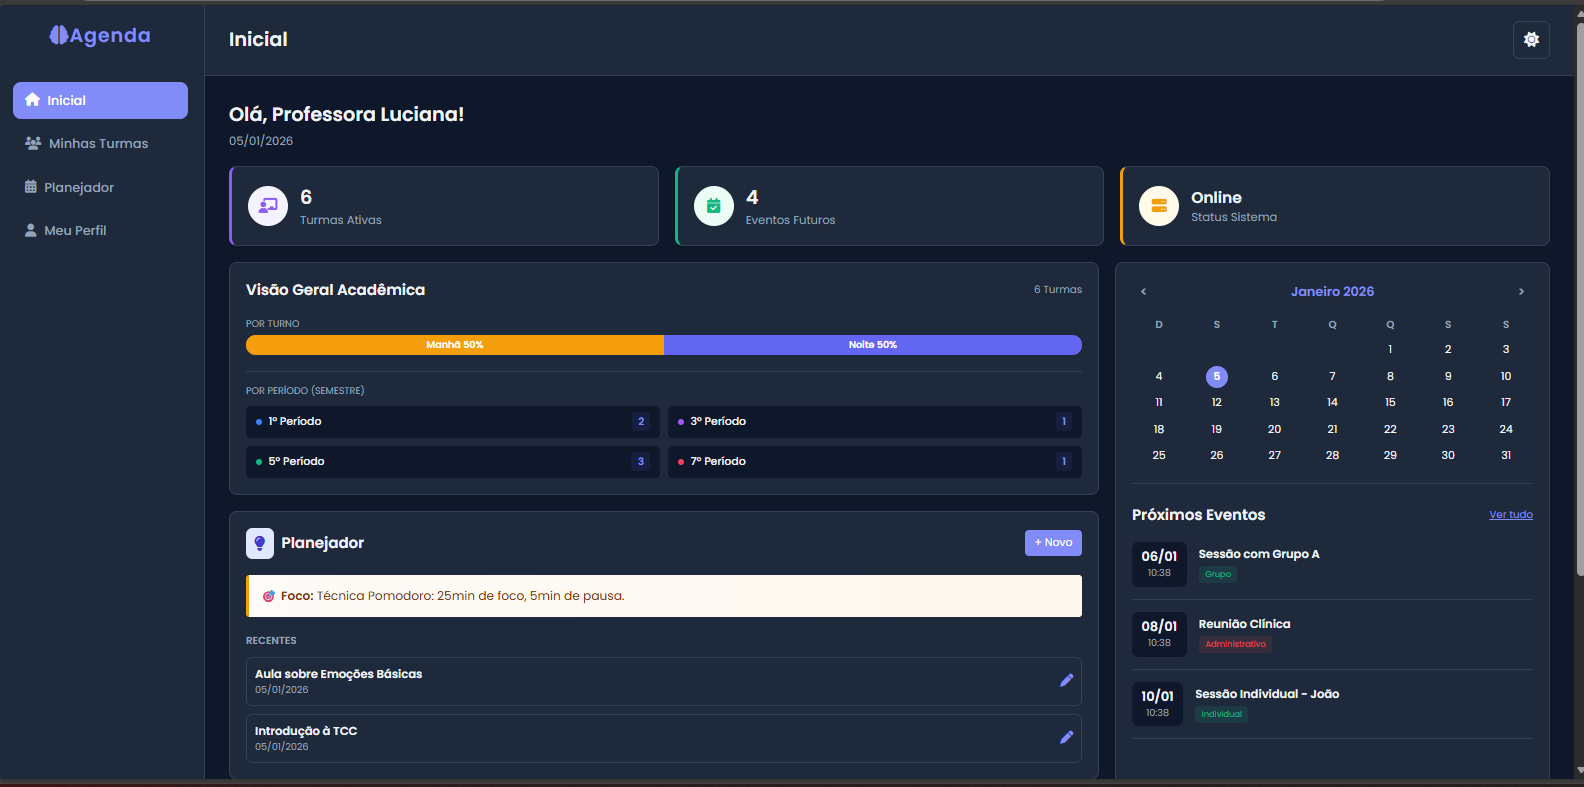
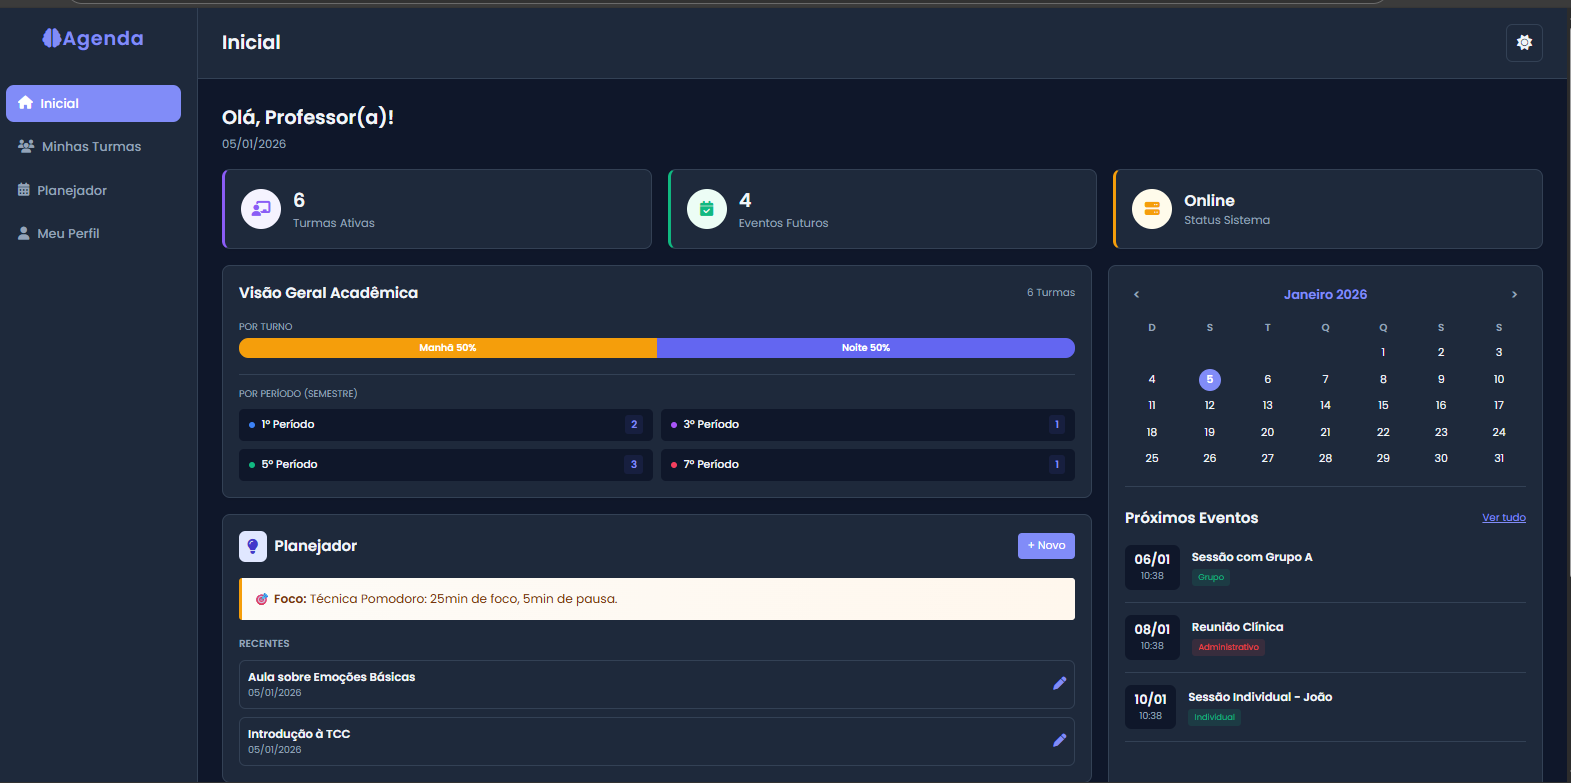
Novo design de Login e correcao de rotas

diff --git a/index.php b/index.php
@@ -1,31 +1,159 @@
 <?php
 // index.php
 require_once 'config/db.php';
+session_start();
+
+// Se já estiver logado, manda direto pro painel
+if (isset($_SESSION['usuario_id'])) {
+    header("Location: dashboard.php");
+    exit();
+}
 ?>
 <!DOCTYPE html>
 <html lang="pt-br">
 <head>
     <meta charset="UTF-8">
+    <meta name="viewport" content="width=device-width, initial-scale=1.0">
     <title>Login - PsicoHub</title>
-    <link rel="stylesheet" href="assets/css/style.css">
+    <link href="https://fonts.googleapis.com/css2?family=Inter:wght@400;500;600;700&display=swap" rel="stylesheet">
+    <link rel="stylesheet" href="https://cdnjs.cloudflare.com/ajax/libs/font-awesome/6.4.0/css/all.min.css">
+    
     <style>
-        /* Estilo específico apenas para o login para centralizar */
-        body { justify-content: center; align-items: center; }
-        .login-box { width: 300px; padding: 20px; background: white; border-radius: 8px; box-shadow: 0 4px 10px rgba(0,0,0,0.1); }
-        input { width: 100%; padding: 10px; margin: 10px 0; }
-        button { width: 100%; padding: 10px; background: #2c3e50; color: white; border: none; cursor: pointer; }
-        button:hover { background: #34495e; }
+        :root {
+            --bg-dark: #0f172a;
+            --card-bg: #1e293b;
+            --primary: #6366f1;
+            --primary-hover: #4f46e5;
+            --text-main: #f8fafc;
+            --text-muted: #94a3b8;
+            --border: #334155;
+        }
+
+        * { margin: 0; padding: 0; box-sizing: border-box; font-family: 'Inter', sans-serif; }
+
+        body {
+            background-color: var(--bg-dark);
+            height: 100vh;
+            display: flex;
+            align-items: center;
+            justify-content: center;
+            /* Um gradiente sutil no fundo para dar elegância */
+            background-image: radial-gradient(circle at top right, #312e81 0%, transparent 40%),
+                              radial-gradient(circle at bottom left, #1e1b4b 0%, transparent 40%);
+        }
+
+        .login-card {
+            background-color: var(--card-bg);
+            padding: 40px;
+            width: 100%;
+            max-width: 400px;
+            border-radius: 16px;
+            border: 1px solid var(--border);
+            box-shadow: 0 25px 50px -12px rgba(0, 0, 0, 0.5);
+            text-align: center;
+        }
+
+        /* Logo e Títulos */
+        .logo-area { margin-bottom: 30px; }
+        .logo-area i {
+            font-size: 3rem;
+            background: linear-gradient(135deg, #6366f1, #a855f7);
+            -webkit-background-clip: text;
+            -webkit-text-fill-color: transparent;
+            margin-bottom: 10px;
+        }
+        .logo-area h1 { font-size: 1.5rem; font-weight: 700; color: var(--text-main); letter-spacing: -0.5px; }
+        .logo-area p { color: var(--text-muted); font-size: 0.9rem; margin-top: 5px; }
+
+        /* Campos de Entrada */
+        .input-group { text-align: left; margin-bottom: 20px; }
+        .input-group label { display: block; margin-bottom: 8px; color: var(--text-muted); font-size: 0.85rem; font-weight: 500; }
+        
+        .input-wrapper { position: relative; }
+        .input-wrapper i {
+            position: absolute; left: 15px; top: 50%; transform: translateY(-50%);
+            color: var(--text-muted); font-size: 1rem; transition: 0.3s;
+        }
+
+        .input-wrapper input {
+            width: 100%;
+            background-color: #0f172a;
+            border: 1px solid var(--border);
+            padding: 12px 12px 12px 45px; /* Espaço para o ícone */
+            border-radius: 8px;
+            color: white;
+            font-size: 0.95rem;
+            outline: none;
+            transition: all 0.3s;
+        }
+
+        .input-wrapper input:focus {
+            border-color: var(--primary);
+            box-shadow: 0 0 0 3px rgba(99, 102, 241, 0.2);
+        }
+        .input-wrapper input:focus + i { color: var(--primary); }
+
+        /* Botão */
+        .btn-login {
+            width: 100%;
+            background: linear-gradient(to right, #6366f1, #4f46e5);
+            color: white;
+            padding: 14px;
+            border: none;
+            border-radius: 8px;
+            font-size: 1rem;
+            font-weight: 600;
+            cursor: pointer;
+            transition: transform 0.2s, box-shadow 0.2s;
+            margin-top: 10px;
+        }
+        .btn-login:hover {
+            transform: translateY(-2px);
+            box-shadow: 0 10px 15px -3px rgba(99, 102, 241, 0.4);
+        }
+
+        /* Rodapé do Card */
+        .card-footer { margin-top: 25px; font-size: 0.85rem; color: var(--text-muted); }
+        .card-footer a { color: var(--primary); text-decoration: none; font-weight: 500; }
+        .card-footer a:hover { text-decoration: underline; }
     </style>
 </head>
 <body>
 
-    <div class="login-box">
-        <h2 style="text-align:center">Login</h2>
-        <form action="valida_login.php" method="POST">
-            <input type="email" name="email" placeholder="Seu e-mail" required>
-            <input type="password" name="senha" placeholder="Sua senha" required>
-            <button type="submit">Entrar</button>
+    <div class="login-card">
+        <div class="logo-area">
+            <i class="fa-solid fa-brain"></i>
+            <h1>PsicoHub</h1>
+            <p>Faça login para gerenciar suas turmas</p>
+        </div>
+
+        <form action="actions/valida_login.php" method="POST">
+            
+            <div class="input-group">
+                <label>E-mail Acadêmico</label>
+                <div class="input-wrapper">
+                    <input type="email" name="email" placeholder="exemplo@psicohub.com" required>
+                    <i class="fa-regular fa-envelope"></i>
+                </div>
+            </div>
+
+            <div class="input-group">
+                <label>Senha</label>
+                <div class="input-wrapper">
+                    <input type="password" name="senha" placeholder="••••••••" required>
+                    <i class="fa-solid fa-lock"></i>
+                </div>
+            </div>
+
+            <button type="submit" class="btn-login">
+                Entrar no Sistema <i class="fa-solid fa-arrow-right" style="margin-left: 8px;"></i>
+            </button>
+
         </form>
+
+        <div class="card-footer">
+            <p>Esqueceu sua senha? <a href="#">Recuperar acesso</a></p>
+        </div>
     </div>
 
 </body>

diff --git a/actions/valida_login.php b/actions/valida_login.php
@@ -1,30 +1,31 @@
 <?php
-// valida_login.php
-session_start(); // Inicia a sessão para salvar o usuário logado
-require_once 'config/db.php';
+// actions/valida_login.php
+session_start();
+
+// ATENÇÃO: Adicionamos o "../" porque agora estamos dentro da pasta 'actions'
+require_once '../config/db.php'; 
 
 if ($_SERVER["REQUEST_METHOD"] == "POST") {
     $email = $_POST['email'];
     $senha = $_POST['senha'];
 
-    // Prepara a busca no banco para evitar Hackers (SQL Injection)
+    // Prepara a busca
     $stmt = $pdo->prepare("SELECT * FROM usuarios WHERE email = :email");
     $stmt->execute(['email' => $email]);
     $user = $stmt->fetch(PDO::FETCH_ASSOC);
 
-    // Verifica se achou o usuário E se a senha bate
-    // OBS: Como criamos a senha "123" manualmente no banco, comparamos direto.
-    // Em produção, usaríamos password_verify($senha, $user['senha'])
+    // Verifica senha (aqui comparando texto puro conforme seu exemplo)
     if ($user && $user['senha'] == $senha) {
-        // Sucesso! Salva os dados na sessão
         $_SESSION['usuario_id'] = $user['id'];
         $_SESSION['usuario_nome'] = $user['nome'];
         
-        header("Location: dashboard.php");
+        // CORREÇÃO: Redireciona voltando uma pasta para achar o dashboard
+        header("Location: ../dashboard.php");
         exit();
     } else {
-        // Erro: Volta pro login com aviso
-        echo "<script>alert('E-mail ou senha incorretos!'); window.location.href='index.php';</script>";
+        // CORREÇÃO: Volta para o login com erro
+        header("Location: ../index.php?erro=1");
+        exit();
     }
 }
 ?>

diff --git a/includes/header.php b/includes/header.php
@@ -3,7 +3,7 @@
 <head>
     <meta charset="UTF-8">
     <meta name="viewport" content="width=device-width, initial-scale=1.0">
-    <title>Agenda</title>
+    <title>PsicoHub</title>
     <link rel="stylesheet" href="assets/css/style.css">
     
     <link rel="stylesheet" href="https://cdnjs.cloudflare.com/ajax/libs/font-awesome/6.4.0/css/all.min.css">
@@ -19,7 +19,7 @@
             <h1>
                 <?php 
                 // Exibe título dinâmico ou padrão
-                echo isset($page_title) ? $page_title : 'Agenda'; 
+                echo isset($page_title) ? $page_title : 'PsicoHub'; 
                 ?>
             </h1>
             

diff --git a/actions/logout.php b/actions/logout.php
@@ -1,7 +1,7 @@
 <?php
-session_start();  // logout.php
-$_SESSION = array();  // Limpa todas as variáveis de sessão
-session_destroy();   // Destrói a sessão
-header("Location: index.php");   // Redireciona para o login
+session_start(); // actions/logout.php
+$_SESSION = array();// Destrói todas as variáveis de sessão
+session_destroy();
+header("Location: ../index.php");// Redireciona para o login, // O "../" serve para VOLTAR uma pasta (sair de actions e ir para a raiz)
 exit();
 ?>

diff --git a/dashboard.php b/dashboard.php
@@ -107,7 +107,7 @@ include 'includes/header.php';
 </style>
 
 <div style="margin-bottom: 20px;">
-    <h2 style="margin-bottom: 5px;">Olá, Professora Luciana!</h2>
+    <h2 style="margin-bottom: 5px;">Olá, Professor(a)!</h2>
     <p style="color: var(--text-muted); font-size: 0.9rem;"><?php echo date('d/m/Y'); ?></p>
 </div>
 

diff --git a/includes/sidebar.php b/includes/sidebar.php
@@ -17,7 +17,7 @@
         <i class="fa-solid fa-user"></i> Meu Perfil
     </a>
     
-    <a href="logout.php" style="margin-top: auto; color: #ef4444;">
+    <a href="actions/logout.php" style="margin-top: auto; color: #ef4444;">
         <i class="fa-solid fa-right-from-bracket"></i> Sair
     </a>
 </div>

diff --git a/includes/footer.php b/includes/footer.php
@@ -1,5 +1,5 @@
 <footer>
-            <p style="margin-top:20px; text-align:center; color:#777;">&copy; 2024 Minha Agenda</p>
+            <p style="margin-top:20px; text-align:center; color:#777;">&copy; 2026 PsicoHub</p>
         </footer>
     </div> </body>
 </html>
